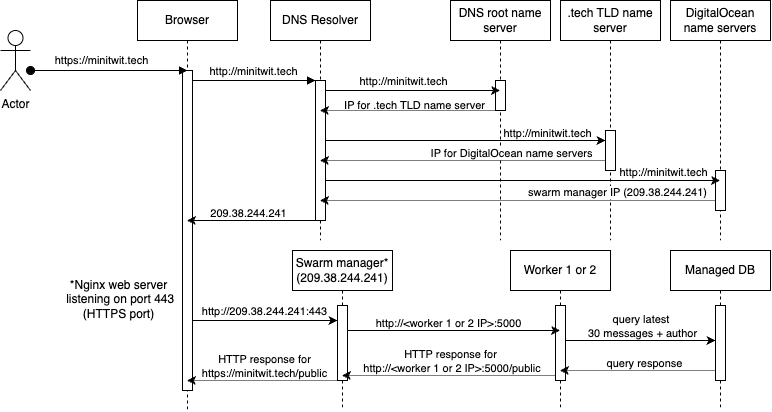
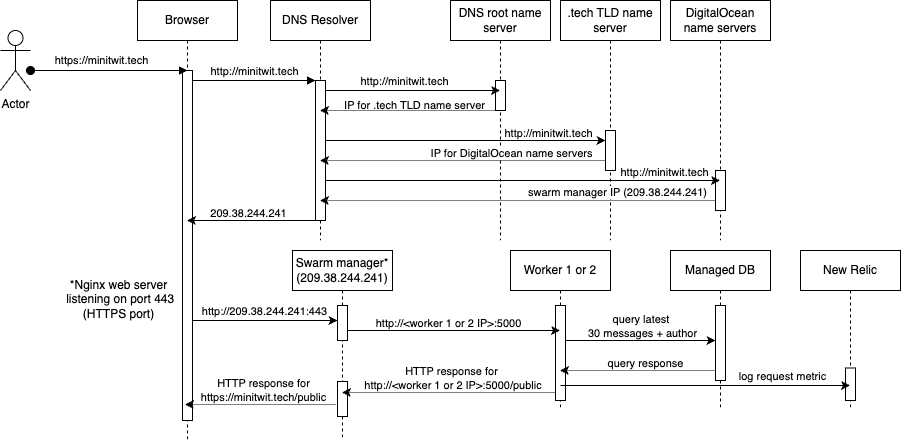
Update report

diff --git a/main.tex b/main.tex
@@ -30,17 +30,43 @@
 
 \section{Systems' perspective}
 \subsection{Design and architecture}
+An overview of the architecture of our MiniTwit application can be found in figure \ref{fig:architecture}. 
+The entire system runs on DigitalOcean, with the exception of our monitoring and logging that runs on New Relic.
+In DigitalOcean, we have 3 primary nodes running. A swarm manager, and two workers. These 3 nodes are a part of a docker swarm network that runs the minitwit web app and minitwit simulator API containers as docker services.
+The workers and manager also run a New Relic agent that collects logs and system monitoring information, and send it to new relic.
+The manager node runs a Nginx reverse proxy, that handles https encryption, and load balancing between the workers.
+Lastly, in DigitalOcean we also have a managed database running, that acts as the database for the application.
+What the diagram below does not show is that the swarm manager also has a container running the web app and the simulator API. The reason why this is not shown on the diagram is because the Nginx reverse proxy has been set to only forward requests to worker 1 and 2. 
+That means that the web app and the simulator api in the swarm manager will never be used. 
+
+
 \begin{figure}[H]
     \centering
     \includegraphics[width=\textwidth]{images/devops-overview.png}
-    \caption{A diagram of the infrastructure running our application}
-    \label{fig:infrastructure}
+    \caption{The figure shows a diagram of the architecture of minitwit}
+    \label{fig:architecture}
 \end{figure}
 
 \subsection{Dependencies}
+\todo{Describe and illustrate: all dependencies of your ITU-MiniTwit systems on all levels of abstraction and development stages. That is, list and briefly describe all technologies and tools you applied and depend on.
+}
+
+
+DigitialOcean is the only critical dependency for keeping the application running. That is the 3 VM's and the database. 
+
+We do not show further dependecies... 
+
+\begin{figure}[H]
+    \centering
+    \includegraphics[width=0.8\textwidth]{images/dependency-graph-prod.png}
+    \caption{Production dependency graph.}
+    \label{fig:dep-prod}
+\end{figure}
 
 \subsection{Interactions of subsystems}
-
+\todo{For example, via an illustrative UML Sequence diagram that shows the flow of information through your system from user request in the browser, over all subsystems, hitting the database, and a response that is returned to the user.
+Similarly, another illustrative sequence diagram that shows how requests from the simulator traverse your system.
+}
 \begin{figure}[H]
     \centering
     \includegraphics[width=\textwidth]{images/devops-sequence.png}
@@ -48,22 +74,71 @@
     \label{fig:sequence}
 \end{figure}
 
+
+\begin{figure}[H]
+    \centering
+    \includegraphics[width=\textwidth]{images/api-sequence.png}
+    \caption{A sequence diagram describing the process of calling "api.minitwit.tech/msgs"}
+    \label{fig:sequence_api}
+\end{figure}
+
+
 \subsection{Current state}
+\todo{Describe the current state of your systems, for example using results of static analysis and quality assessments.}
 
 \section{Process' perspective}
+\todo{This perspective should clarify how code or other artifacts come from idea into the running system and everything that happens on the way.
+In particular, the following descriptions should be included:}
+
 
 \subsection{CI/CD chain}
+\todo{A complete description of stages and tools included in the CI/CD chains, including deployment and release of your systems. }
 
-\subsection{Monitoring}
+\subsubsection{Deployment workflows}
+Our deployment workflows runs in GitHub LSP
 
-\subsection{Logging}
+\subsubsection{Report workflows}
+To ensure our report in our repository is always up to date, we utilise a built-in synchronization between Overleaf and GitHub. Once changes are made that a group member wish to save, one click from within Overleaf synchronizes the contents to a separate repository in our GitHub organisation, which triggers two Github Actions workflows:
+\begin{enumerate}
+    \item A workflow from within this report repository that notifies our main repository of any changes made to our report repository.
+    \item A workflow from within the main repository that is called by the previously mentioned workflow, which triggers a git submodule update and commits it to the repository.
+\end{enumerate}
+
+\subsection{Monitoring \& Logging}
+\todo{How do you monitor your systems and what precisely do you monitor?}
+Both monitoring and logging of this project is done using New Relic.
+\begin{figure}[h]
+    \centering
+    \includegraphics[width=\textwidth]{images/new-relic-transactions.png}
+    \caption{The newrelic graph depicting web transaction times by application layer}
+    \label{fig:transaction-times}
+\end{figure}
+% Afsnit done lets go
+% det ser faktisk lækkert ud i latex
+
+\todo{What do you log in your systems and how do you aggregate logs?}
+% NewRelic er begge dele
 
 \subsection{Security}
-There are no security flaws in minitwit.\cite{me}
+\todo{Brief results of the security assessment and brief description of how did you harden the security of your system based on the analysis}
 
 \subsection{Scaling and upgrading}
+\todo{Applied strategy for scaling and upgrades}
+
+\subsection{Use of AI tools}
+\todo{
+In case you have used AI-assistants during your project briefly explain which system(s) you used during the project and reflect how it supported/hindered your process.
+}
+
+In the beginning of the project, not all team members were familiar with the programming language Ruby. In order to get familiar, some of us had the Github Copilot extension enabled, allowing us to participate on a similar level as those who were more familiar with the language.\\
+
+In the review process, ChatGPT has been used as a tool to interpret changes made by other members, by prompting ChatGPT to help understand the effects and consequences of the changes.\\
 
 \section{Lessons learned perspective}
+\todo{Describe the biggest issues, how you solved them, and which are major lessons learned with regards to: evolution and refactoring,
+operation, and
+maintenance 
+of your ITU-MiniTwit systems. Link back to respective commit messages, issues, tickets, etc. to illustrate these. Also reflect and describe what was the "DevOps" style of your work. For example, what did you do differently to previous development projects and how did it work?}
 
 \subsection{Evolution and refactoring}
 

diff --git a/preamble.tex b/preamble.tex
@@ -31,6 +31,8 @@
 \usepackage{fancyhdr}
 \usepackage[dvipsnames]{xcolor}
 \usepackage[hidelinks]{hyperref}
+\usepackage[margin=1.3in]{geometry}
+\newcommand\todo[1]{\textcolor{red}{#1}}
 
 \renewcommand{\baselinestretch}{1.2} % Line spacing
 % \setlength{\parindent}{0em} % Paragraph indent
